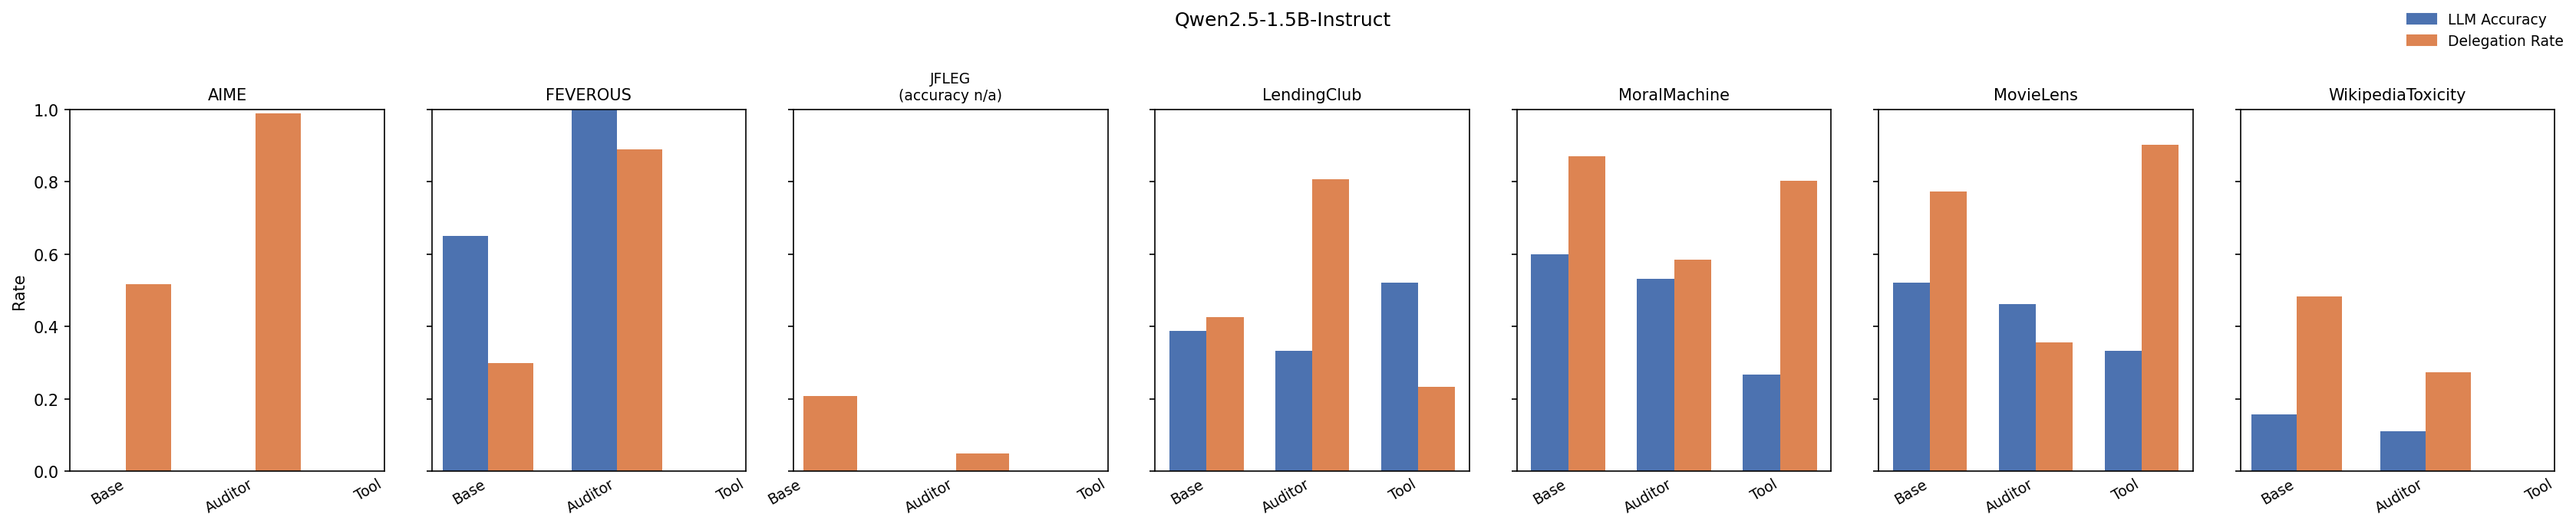
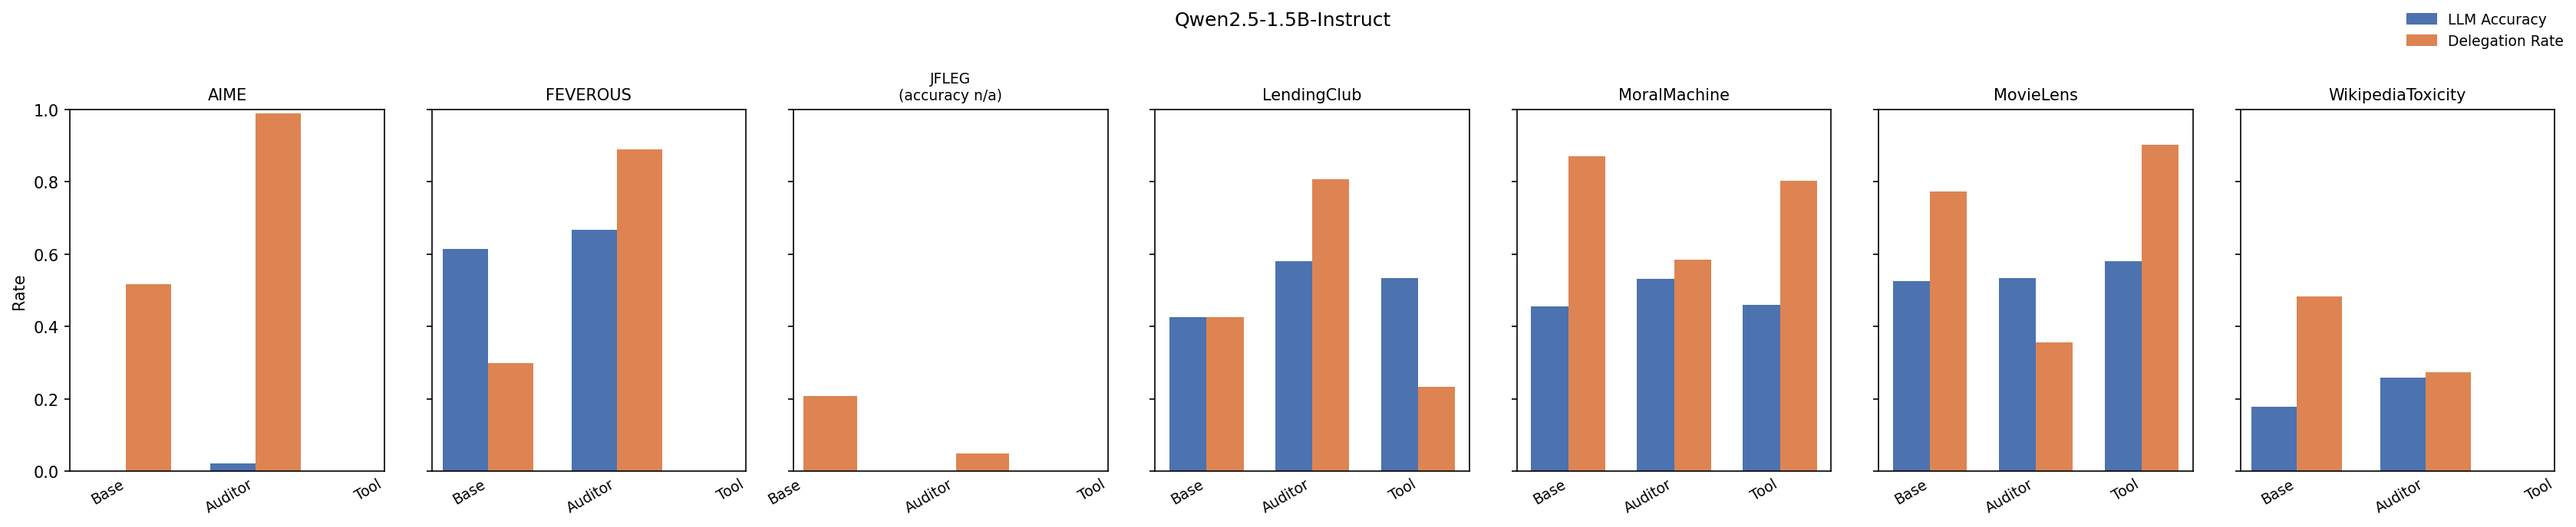
Fix LLM accuracy to use all rows, not just non-delegated
https://claude.ai/code/session_014ywgEPu7pi1Aw4HH2SWQWR

diff --git a/scripts/plot_results.py b/scripts/plot_results.py
@@ -4,7 +4,7 @@ Generate per-model bar charts across datasets.
 For each model, produces a figure with one facet per dataset.
 X-axis: mode (base, auditor, tool=rf/ols)
 Y-axis: 0–1
-Bars: LLM accuracy (non-delegated rows only) and delegation rate.
+Bars: LLM accuracy (llm_prediction == ground_truth, all rows) and delegation rate.
 
 Note: JFLEG is a grammar-correction task (text generation); accuracy there
 requires GLEU scoring, not simple equality, so the accuracy bar is omitted.
@@ -43,7 +43,7 @@ def compute_metrics(df: pd.DataFrame, dataset: str) -> tuple[float, float]:
     """Return (accuracy, delegation_rate) for a results dataframe.
 
     Rows where llm_delegate is NaN are excluded (incomplete entries).
-    Accuracy is computed only on non-delegated rows.
+    Accuracy is llm_prediction == ground_truth across all valid rows.
     """
     valid = df[df["llm_delegate"].notna()]
     delegation_rate = (valid["llm_delegate"] == 1).mean()
@@ -52,13 +52,9 @@ def compute_metrics(df: pd.DataFrame, dataset: str) -> tuple[float, float]:
         accuracy = np.nan
     else:
         gt_col = ground_truth_col(df)
-        non_delegated = valid[valid["llm_delegate"] == 0].copy()
-        if non_delegated.empty:
-            accuracy = np.nan
-        else:
-            pred = pd.to_numeric(non_delegated["llm_prediction"], errors="coerce")
-            truth = pd.to_numeric(non_delegated[gt_col], errors="coerce")
-            accuracy = (pred == truth).mean()
+        pred = pd.to_numeric(valid["llm_prediction"], errors="coerce")
+        truth = pd.to_numeric(valid[gt_col], errors="coerce")
+        accuracy = (pred == truth).mean()
 
     return accuracy, delegation_rate
 
